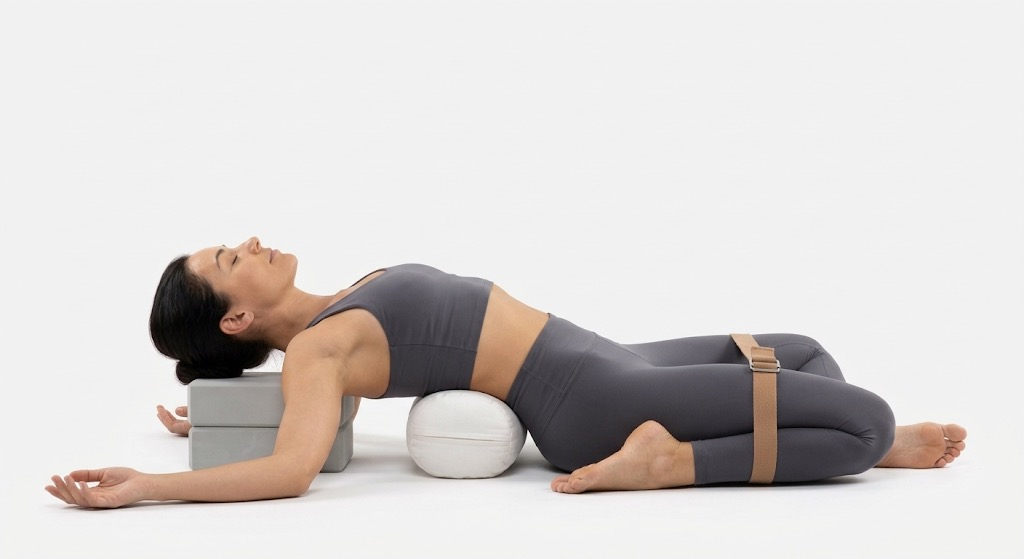
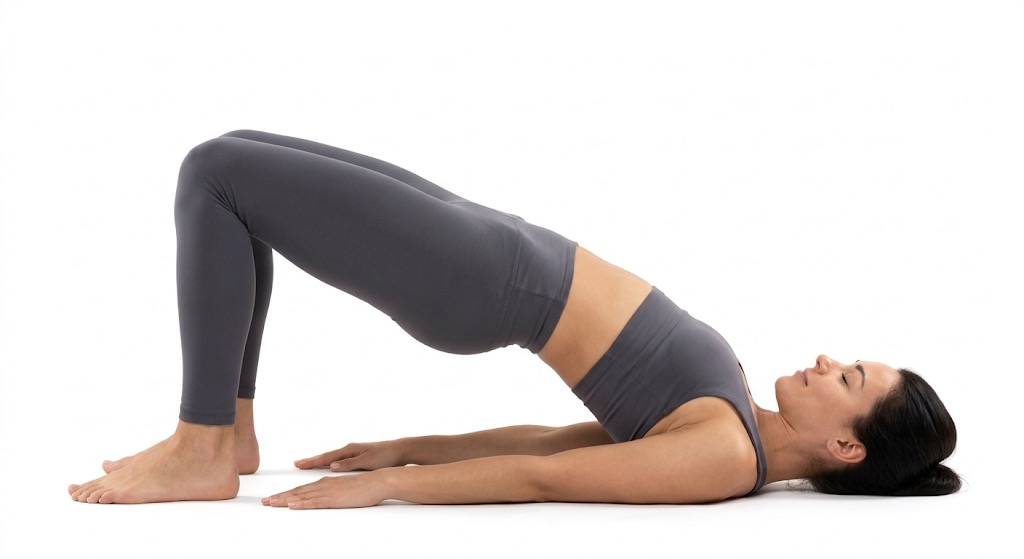
Add photo for Supta Virasana with props and ensure Setu Bandha Sarvangasana photo accuracy

diff --git a/src/utils/poseGallery.js b/src/utils/poseGallery.js
@@ -567,6 +567,22 @@ export const KNOWN_POSE_VARIATIONS = {
       description: 'מנח סאטו באנדהה סרוואנגאסאנה בקימור מלא',
       src: '/images/poses/setu-bandha-sarvangasana.png'
     }
+  ],
+  'supta-virasana': [
+    {
+      id: 'props',
+      title: 'תרגול נתמך עם פרופס (איינגר)',
+      badge: '🛋 תרגול נתמך',
+      description: 'סופטה ויראסאנה: שכיבה לאחור מעל בולסטר מוגבה, תמיכת בלוקים מתחת לחזה והראש, ורצועה מהודקת סביב הירכיים',
+      src: '/images/poses/supta-virasana.jpg'
+    },
+    {
+      id: 'alt',
+      title: 'הדגמה באיכות גבוהה',
+      badge: '🧘 הדגמה נוספת',
+      description: 'מנח סופטה ויראסאנה נתמך באיכות מלאה',
+      src: '/images/poses/supta-virasana.png'
+    }
   ]
 };
 
